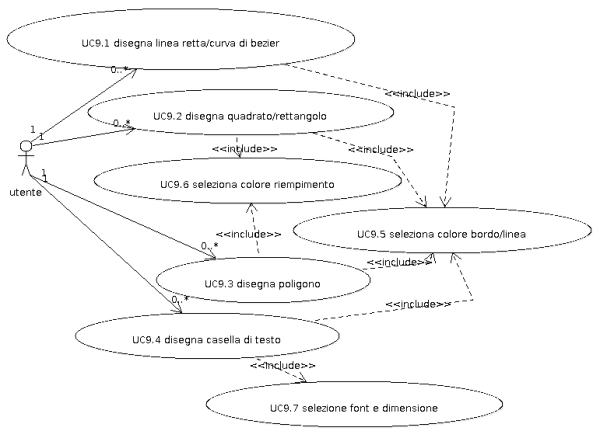
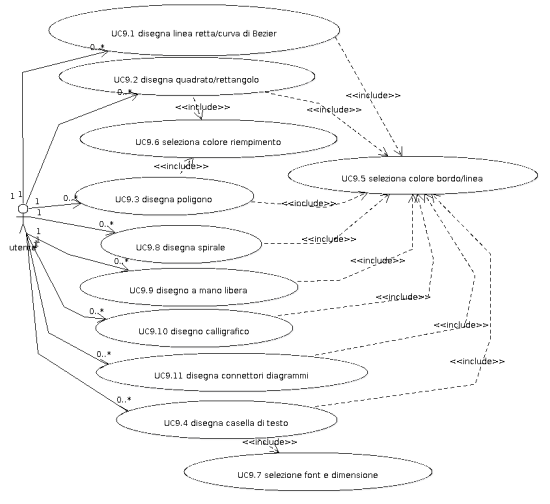
AR: aggiornato testo e diagramma disegno

diff --git a/doc/AnalisiRequisiti/AnalisiDeiRequisiti.tex b/doc/AnalisiRequisiti/AnalisiDeiRequisiti.tex
@@ -2,7 +2,7 @@
 \usepackage{multirow}
 \begin{document}
 
-\renewcommand{\insertversion}{0.1} %INSERIRE LA VERSIONE QUI DENTRO STILE x.x.xx
+\renewcommand{\insertversion}{0.2} %INSERIRE LA VERSIONE QUI DENTRO STILE x.x.xx
 \renewcommand{\TITOLODOC}{Analisi dei Requisiti} %INSERIRE IL TITOLO DEL DOCUMENTO DA FAR COMPARIRE A PIE PAGINA
 
 \begin{titlepage}
@@ -76,6 +76,7 @@ Tale studio \`e mirato alla comprensione dei bisogni espressi nel capitolato e a
 				%%%%%%%%%%% PARTE DA MODIFICARE %%%%%%%%%%%%%%%%%%%%%%%%%%%%%%%%%%%%%%%%%%%%%%%%%%%%%%%%%%%%%%%%%		
 				\multirow{2}{*}{Pre-RR} & Bizzotto Piero\\
 										& Dissegna Stefano\\
+										& Carollo Mirko\\
 				\hline
 				\multirow{2}{*}{RR-RPP} & \\
 										& \\
@@ -120,7 +121,7 @@ Tale studio \`e mirato alla comprensione dei bisogni espressi nel capitolato e a
 \section*{\LARGE Lista di Distribuzione:}
 
 	\begin{elenconumerato}{\normindent}
-		\item WebShape \footnote{Il termine WebShape designa una collettivit\`a di individui come da organigramma contenuto nel piano di progetto fornito in allegato al presente documento}
+		\item WebShape
 		\item I committenti Conte Renato e Vardanega Tullio in rappresentanza \\  dell'azienda proponente Zucchetti SPA
 	\end{elenconumerato}
 
@@ -139,7 +140,8 @@ Tale studio \`e mirato alla comprensione dei bisogni espressi nel capitolato e a
 %%%%%%%%%%%%%%FINE INTESTAZIONE COLONNE%%%%%%%%%%%%%%%%%%%%%%%%%%%%%%%%%%%%%%%%%%%%%%%%%%%%%%%%%%%%%%
 		 \hline
 %%%%%%%%%%% PARTE DA MODIFICARE %%%%%%%%%%%%%%%%%%%%%%%%%%%%%%%%%%%%%%%%%%%%%%%%%%%%%%%%%%%%%%%%
-		
+				\hline
+				0.2 & 02$\slash$12$\slash$2008 Altri casi d'uso e qualche requisito aggiunti. & Bizzotto Piero \\
                 \hline
                 0.1 & 30$\slash$11$\slash$2008 Casi d'uso relativi ad avvio e interazione con l'applicazione. Aggiunti requisiti. & Dissegna Stefano \\
 		\hline	
@@ -233,12 +235,12 @@ Se viene rilevato un browser non supportato, l'utente viene avvisato. L'utente p
 
 \subsezione{Interazione con l'applicazione}
 Il seguente grafico descrive le interazioni tra l'utente finale e l'applicazione da un punto di vista ad alto livello. Le interazioni principali verranno poi espanse.
-\begin{figure}[!ht]
-\centering
-\vspace{20pt} 
+%\begin{figure}[!ht]
+%\centering
+%\vspace{20pt} 
 %\includegraphics[width=1\textwidth]{UC0}
-\caption{funzionalit\`a dell'applicazione}
-\end{figure}
+%\caption{funzionalit\`a dell'applicazione}
+%\end{figure}
 
 \paragraph{Segue ora una descrizione testuale dei casi d'uso presentati dal grafico.}
 
@@ -338,11 +340,11 @@ Il sistema permette all'utente di esportare in formato SVG il contenuto del canv
 \paragraph{Scopo e descrizione sintetica} 
 Il sistema permette all'utente di caricare file in formato SVG nel canvas.
 \paragraph{Flusso di eventi}
-\begin{enumerate}
+\begin{elenconumerato}[\textbf{}]{\subsubsecindent}
 \item L'utente seleziona il comando per caricare il file SVG.
 \item L'utente seleziona il file SVG.
 \item Il sistema visualizza il file SVG nel canvas. Se il file contiene elementi o attributi non supportati, essi saranno ignorati.
-\end{enumerate}
+\end{elenconumerato}
 \paragraph{Flusso alternativo}
 Se il file non pu\`o essere caricato o a causa di un errore in lettura o perch\`e non \'e un file SVG, l'utente viene avvisato dell'errore e l'applicazione ritorna allo stato precedente l'esecuzione del comando.
 \paragraph{Precondizioni} Il canvas \'e visualizzato.
@@ -450,12 +452,148 @@ Il sistema permette all'utente di selezionare il colore di riempimento del polig
 Il sistema permette all'utente di selezionare il tipo e la dimensione del carattere da disegnare.
 \paragraph{Flusso di eventi}
 \begin{elenconumerato}[\textbf{}]{\subsubsecindent}
-\item L'utente seleziona il il tipo di carattere e la sua dimensione.
+\item L'utente seleziona il tipo di carattere e la sua dimensione.
 \item Il sistema imposta i valori dati dall'utente come base per la figura da disegnare.
 \end{elenconumerato}
 \paragraph{Precondizioni} Il canvas \'e visualizzato.
 \paragraph{Postcondizioni} Il canvas \'e visualizzato.
 
+\subsubsezione{UC9.8 Caso d'uso: disegna spirale}
+\paragraph{Attori coinvolti} Utente.
+\paragraph{Scopo e descrizione sintetica} 
+Il sistema permette all'utente di disegnare una spirale.
+\paragraph{Flusso di eventi}
+\begin{elenconumerato}[\textbf{}]{\subsubsecindent}
+\item L'utente seleziona il comando per disegnare una spirale.
+\item L'utente disegna la spirale sul canvas, regolando col cursore la sua dimensione.
+\item Il sistema disegna la spirale.
+\end{elenconumerato}
+\paragraph{Precondizioni} Il canvas \'e visualizzato.
+\paragraph{Postcondizioni} Il canvas mostra la nuova spirale disegnata.
+
+\subsubsezione{UC9.9 Caso d'uso: disegno di linee a mano libera}
+\paragraph{Attori coinvolti} Utente.
+\paragraph{Scopo e descrizione sintetica} 
+Il sistema permette all'utente di disegnare linee a mano libera.
+\paragraph{Flusso di eventi}
+\begin{elenconumerato}[\textbf{}]{\subsubsecindent}
+\item L'utente seleziona il comando per disegnare linee a mano libera.
+\item L'utente disegna la linea a mano libera sul canvas, trascinando il cursore.
+\item Il sistema disegna la linea creata.
+\end{elenconumerato}
+\paragraph{Precondizioni} Il canvas \'e visualizzato.
+\paragraph{Postcondizioni} Il canvas mostra la nuova linea a mano libera.
+
+\subsubsezione{UC9.10 Caso d'uso: disegno calligrafico}
+\paragraph{Attori coinvolti} Utente.
+\paragraph{Scopo e descrizione sintetica} 
+Il sistema permette all'utente di disegnare una linea a mano libera con stile calligrafico.
+\paragraph{Flusso di eventi}
+\begin{elenconumerato}[\textbf{}]{\subsubsecindent}
+\item L'utente seleziona il comando per disegnare linee calligrafiche.
+\item L'utente disegna la linea calligrafica sul canvas, trascinando il cursore.
+\item Il sistema disegna la linea creata.
+\end{elenconumerato}
+\paragraph{Precondizioni} Il canvas \'e visualizzato.
+\paragraph{Postcondizioni} Il canvas mostra la nuova linea calligrafica.
+
+\subsubsezione{UC9.10 Caso d'uso: disegno connettori di diagrammi}
+\paragraph{Attori coinvolti} Utente.
+\paragraph{Scopo e descrizione sintetica} 
+Il sistema permette all'utente di disegnare dei connettori di diagrammi.
+\paragraph{Flusso di eventi}
+\begin{elenconumerato}[\textbf{}]{\subsubsecindent}
+\item L'utente seleziona il comando per disegnare connettori di diagrammi.
+\item L'utente disegna il connettore sul canvas, cliccando su punto d'inizio e punto di fine linea desiderati.
+\item Il sistema disegna il connettore creato.
+\end{elenconumerato}
+\paragraph{Precondizioni} Il canvas \'e visualizzato.
+\paragraph{Postcondizioni} Il canvas mostra il nuovo connettore creato.
+
+\subsezione{Vista UC10 - Seleziona e Modifica}
+\label{ucselezionaemodifica}
+Il seguente grafico illustra le interazioni tra l'utente e il sistema per selezionare e modificare un oggetto sul canvas.
+
+%\begin{figure}[!ht]
+%\centering
+%\vspace{20pt} 
+%\includegraphics{UC10Espanso}
+%\caption{UC9 Caso d'uso: disegna}
+%\label{uc9}
+%\end{figure}
+
+\subsubsezione{UC10.1 Caso d'uso: imposta font casella di testo}
+\paragraph{Attori coinvolti} Utente.
+\paragraph{Scopo e descrizione sintetica} 
+Il sistema consente all'utente di impostare il font del testo presente all'interno di una casella di testo..
+\paragraph{Flusso di eventi}
+\begin{elenconumerato}[\textbf{}]{\subsubsecindent}
+\item L'utente seleziona una casella di testo.
+\item Il sistema evidenzia l'etichetta di testo selezionata e mostra un pannello con i relativi stili grafici.
+\item L'utente porta il cursore nella sezione/scheda del pannello relativa al font
+\item L'utente seleziona il font scelto nel combobox apposito all'interno di tale pannello.
+\end{elenconumerato}
+\paragraph{Precondizioni} L'utente ha scelto una casella di testo presente nel canvas.
+\paragraph{Postcondizioni} Le propriet\` a degli stili grafici della casella di testo indicano che il font usato \` e quello selezionato (la casella potrebbe essere vuota e quindi non visibile dall'utente all'interno del canvas).
+
+\subsubsezione{UC10.2 Caso d'uso: imposta dimensione dei caratteri}
+\paragraph{Attori coinvolti} Utente.
+\paragraph{Scopo e descrizione sintetica} 
+Il sistema consente di modificare la dimensione dei caratteri del testo di una casella.
+\paragraph{Flusso di eventi}
+\begin{elenconumerato}[\textbf{}]{\subsubsecindent}
+\item L'utente seleziona una casella di testo.
+\item Il sistema evidenzia l'etichetta di testo selezionata e mostra un pannello con i relativi stili grafici.
+\item L'utente porta il cursore nella sezione/scheda del pannello relativa alla dimensione carattere.
+\item L'utente seleziona la dimensione scelta nel combobox apposito all'interno di tale pannello, o inserisce un numero intero valido.
+\end{elenconumerato}
+\paragraph{Precondizioni}L'utente ha scelto una casella di testo presente nel canvas.
+\paragraph{Postcondizioni}Le proprietà degli stili grafici della casella di testo indicano che la dimensione del font \` e quella selezionata (parte del testo potrebbe essere troncata o non visibile)
+
+\subsubsezione{UC10.3  Caso d'uso: imposta colore di riempimento}
+\paragraph{Attori coinvolti} Utente.
+\paragraph{Scopo e descrizione sintetica}   Il sistema consente di personalizzare il colore dello spazio appartenente ad un qualsiasi oggetto presente nel canvas. Sono disponibili colori campione, e colori personalizzati (mixando le componenti RGB che producono il corrispondente codice esadecimale del colore a 6 cifre).
+\paragraph{Flusso di eventi}
+\begin{elenconumerato}[\textbf{}]{\subsubsecindent}
+\item L'utente seleziona un oggetto valido.
+\item Il sistema evidenzia l'oggetto selezionato e mostra un pannello con i relativi stili grafici.
+\item L'utente porta il cursore nella sezione/scheda del pannello relativa al colore di riempimento.
+\item  L'utente seleziona un colore  nel menu a tendina apposito all'interno di tale pannello (caso colore campione).
+\item L'utente si reca nel menu a tendina apposito all'interno di tale pannello. Clicca sulla a scheda alternativa e mixa il colore impostando i valori rosso, blu, verde. (caso colore personalizzato).
+\end{elenconumerato}
+\paragraph{Precondizioni}L'utente ha scelto un oggetto colorabile presente nel canvas.
+\paragraph{Postcondizioni}Le propriet\` a degli stili grafici della casella di testo indicano che il colore di riempimento \` e  quello selezionato (il colore potrebbe essere uguale allo sfondo del canvas e quindi non visibile dall'utente).
+
+
+\subsubsezione{UC10.4  Caso d'uso:   imposta colore del bordo}
+\paragraph{Attori coinvolti} Utente.
+\paragraph{Scopo e descrizione sintetica} Il sistema consente di personalizzare il colore di tutto il bordo appartenente ad un qualsiasi oggetto presente nel canvas.
+Sono disponibili colori campione, e colori personalizzati (mixando le componenti RGB che producono il corrispondente codice esadecimale del colore a 6 cifre).
+\paragraph{Flusso di eventi}
+\begin{elenconumerato}[\textbf{}]{\subsubsecindent}
+\item L'utente seleziona un oggetto valido.
+\item Il sistema evidenzia l'oggetto selezionato e mostra un pannello con i relativi stili grafici.
+\item L'utente  porta  il cursore nella sezione/scheda del pannello relativa al colore del bordo.
+\item L'utente seleziona un colore  nel menu a tendina apposito all'interno di tale pannello(caso colore campione).
+\item L'utente si reca nel menu a tendina apposito all'interno di tale pannello. Clicca sulla a scheda alternativa e mixa il colore impostando i valori rosso, blu, verde (caso colore personalizzato).
+\end{elenconumerato}
+\paragraph{Precondizioni} L'utente ha scelto un oggetto colorabile presente nel canvas.
+\paragraph{Postcondizioni} Le propriet\` a degli stili grafici della casella di testo indicano che il colore del bordo\` e quello selezionato (il colore potrebbe essere uguale allo sfondo del canvas e quindi il bordo potrebbe diventare non visibile dall'utente).
+
+
+\subsubsezione{UC10.5  Caso d'uso:   imposta l'opacit\` a}
+\paragraph{Attori coinvolti} Utente.
+\paragraph{Scopo e descrizione sintetica}  Il sistema consente di modificare il livello di opacit\` a di un qualsiasi oggetto presente nel canvas. Il valore si esprime in \%.   \` E quindi possibile rendere un oggetto pienamente visibile (100\%), non visibile (0\%), e situazioni intermedie.
+\paragraph{Flusso di eventi}
+\begin{elenconumerato}[\textbf{}]{\subsubsecindent}
+\item L'utente seleziona un oggetto valido.
+\item Il sistema evidenzia l'oggetto selezionato e mostra un pannello con i relativi stili grafici.
+\item  L'utente porta  il cursore nella sezione/scheda del pannello relativa all'opacit\` a.
+\item  L'utente regola l'opacit\` a inserendo un valore intero tra 0 a 100 o trascinando col cursore l'apposito mixer.
+\end{elenconumerato}
+\paragraph{Precondizioni} L'utente ha scelto un oggetto  presente nel canvas.
+\paragraph{Postcondizioni} Le propriet\` a degli stili grafici della casella di testo indicano che l'opacit\` a dell'oggetto corrisponde al valore intero selezionato.
+$  $
 %inizio requisiti
 \sezione{Lista dei requisiti}
 \label{listarequisiti}
@@ -465,17 +603,17 @@ per ogni tipologia \`e presente un'ulteriore classificazione per classe di spazi
 \subsubsezione{Obbligatori (RFO)}
 \begin{elenconumerato}[\textbf{RFO-}]{\subsubsecindent}
 \item{AJAXDRAW permette di disegnare linee rette.}
-\item{AJAXDRAW permette di disegnare curve.}
-\item{AJAXDRAW permette di effettuare uno zoom in avanti e all'indietro nel disegno.}
-\item{Per ogni elemento disegnato, AJAXDRAW permette all'utente di selezionare e spostare tale elemento.}
+\item{AJAXDRAW permette di disegnare curve di Bezier.}
 \item{AJAXDRAW permette di disegnare quadrilateri di qualsiasi dimensione(quadrata o rettangolare).}
-\item{AJAXDRAW permette all'utente di disegnare cerchi o ellissi.}
 \item{AJAXDRAW permette di disegnare poligoni regolari di qualsiasi dimensione e numero di lati.}
+\item{AJAXDRAW permette all'utente di disegnare cerchi o ellissi.}
 \item{AJAXDRAW permette di aggiungere caselle di testo al documento. }
+\item{Per ogni elemento disegnato, AJAXDRAW permette all'utente di selezionare e spostare tale elemento.}
 \item{AJAXDRAW permette di cambiare il colore di riempimento, del bordo, delle linee, dell'opacità degli oggetti disegnati.}
 \item{AJAXDRAW permette il ridimensionamento degli oggetti disegnati.}
 \item{AJAXDRAW permette all'utente di selezionare ognuna delle funzionalit\`a suddette tramite una comoda barra degli strumenti.}
 \item{Qualora suddette funzioni siano regolate da parametri, AJAXDRAW permette all'utente di impostarli.}
+\item{AJAXDRAW permette di effettuare uno zoom in avanti e all'indietro nel disegno.}
 \item{AJAXDRAW \`e in grado di salvare le immagini create dall'utente nel formato SVG.}
 \item{AJAXDRAW permette di caricare immagini in formato SVG che utilizzano il sottoinsieme che AJAXDRAW \'e in grado di generare.}
 \end{elenconumerato}
@@ -484,9 +622,8 @@ per ogni tipologia \`e presente un'ulteriore classificazione per classe di spazi
 \subsubsezione{Desiderabili (RFD)}
 \begin{elenconumerato}[\textbf{RFD-}]{\subsubsecindent}
 \item{AJAXDRAW permette di disegnare a mano libera.}
-
 \item{AJAXDRAW permette di disegnare connettori per diagrammi.}
-%\item{AJAXDRAW permette di disegnare curve di Bezier.}
+
 \end{elenconumerato}
 
 %facoltativi
